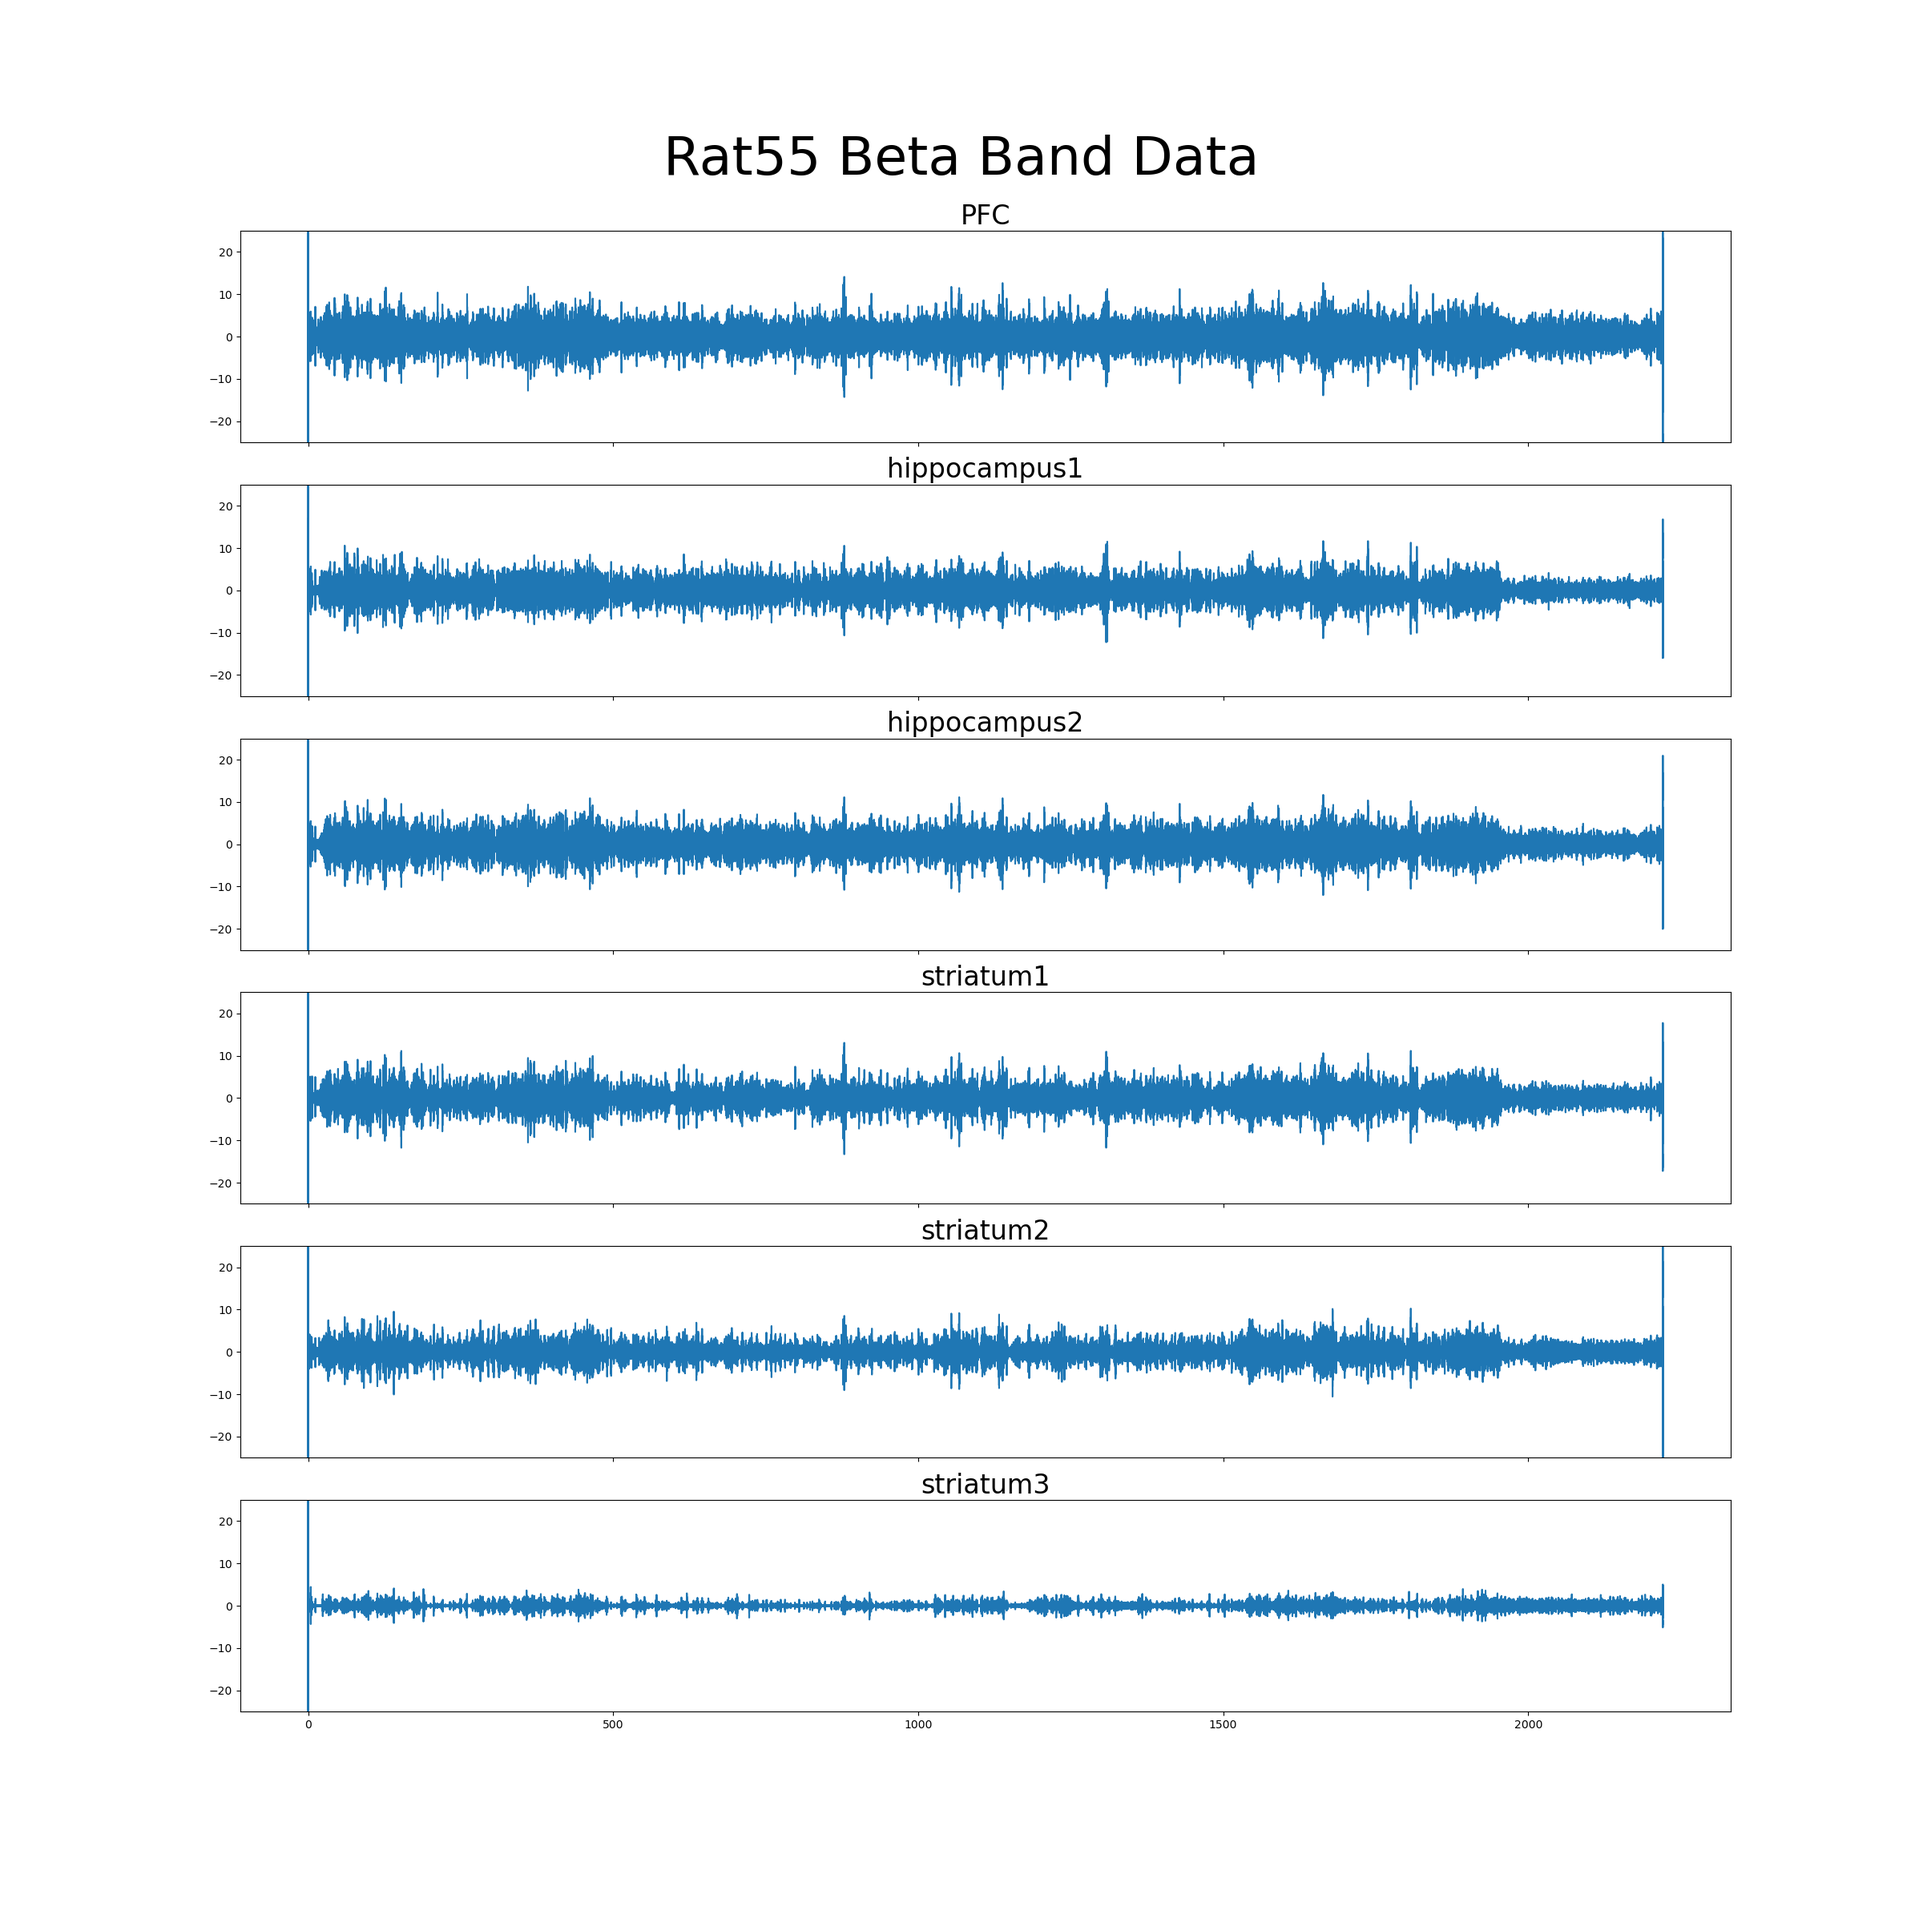
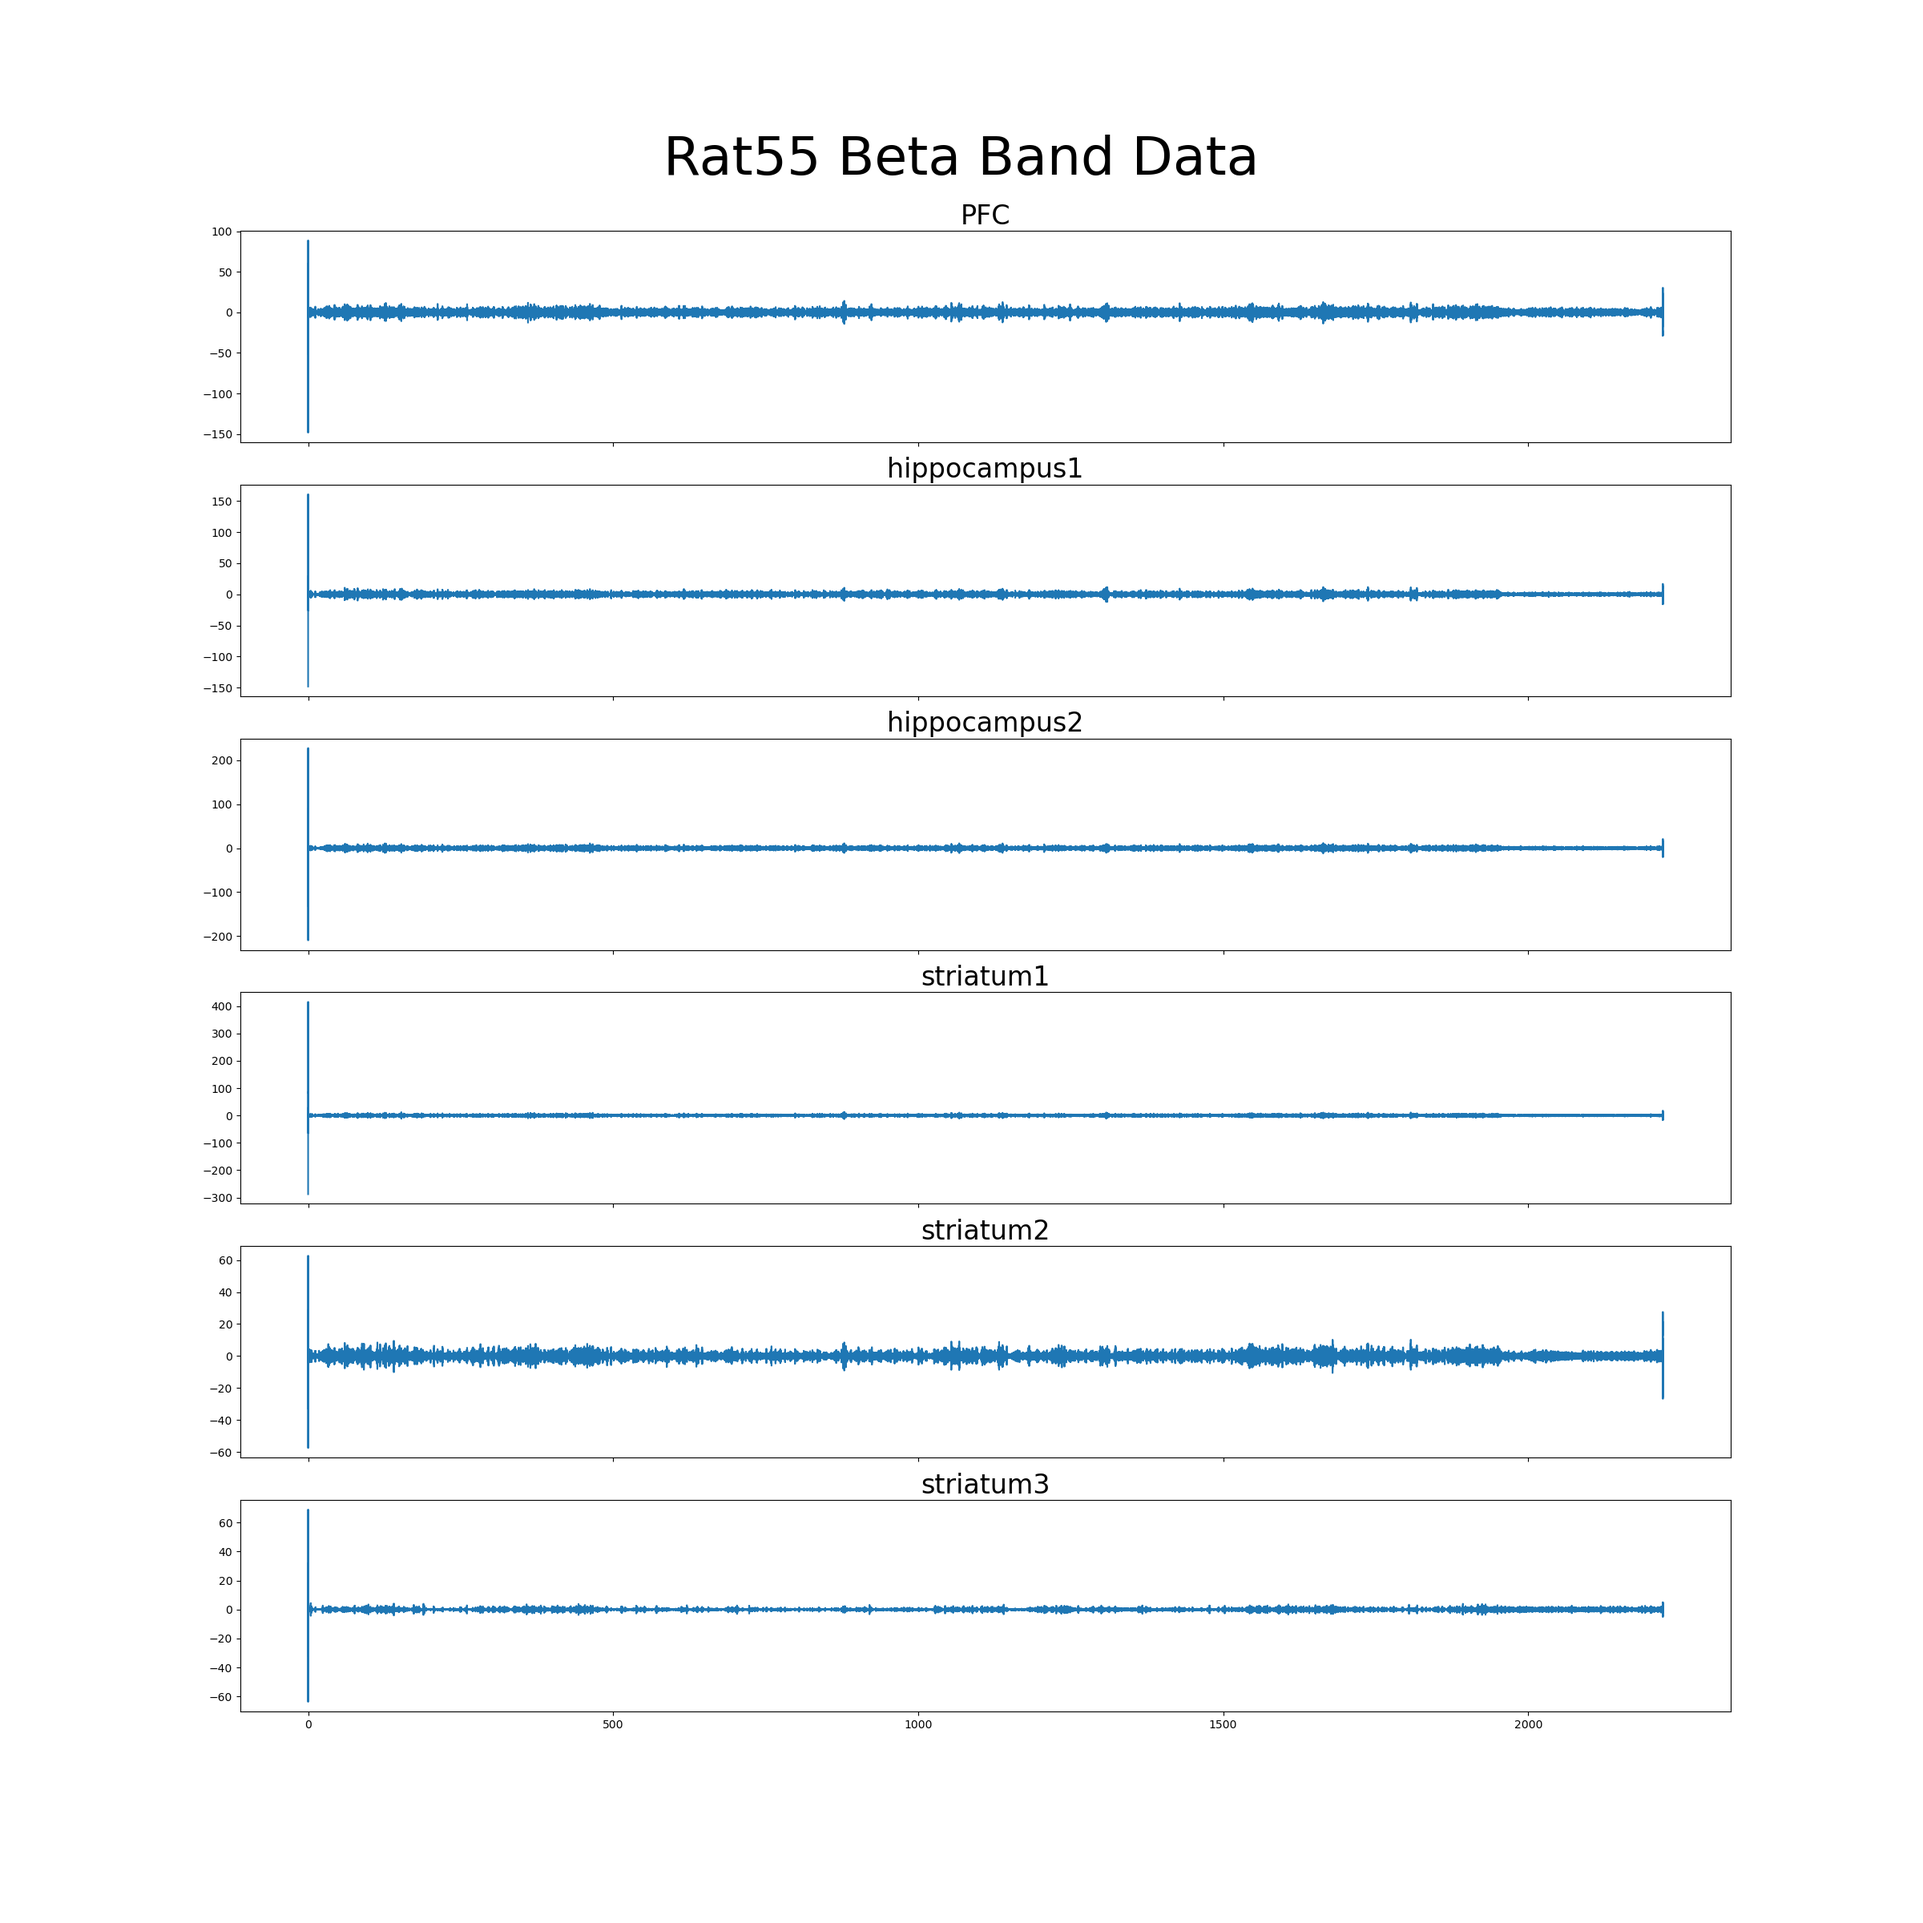
New plots

diff --git a/tests/hypercap.py b/tests/hypercap.py
@@ -11,20 +11,28 @@ import numpy as np
 rat55_raw = preprocessing.proper_format("/Volumes/Elements/Space Radiation Project/evms_hypercapnia_male1/Rat 55/Normoxic - Hypercapnic/06052023 Normoxic cond Standard housing/rat55_H06052023-105935_16g.csv")
 
 # Plot raw data
-rat55_raw_plot = visualization.plot_data(rat55_raw, "Rat55 Raw Data")
+#rat55_raw_plot = visualization.plot_data(rat55_raw, "Rat55 Raw Data")
+
+# Ground correct raw data
+preprocessing.mean_ground_correction(rat55_raw, plot='False')
 
 # Bandpass raw data
 rat55_theta = preprocessing.bandpass_of_interest(rat55_raw, 4, 8)
 rat55_alpha = preprocessing.bandpass_of_interest(rat55_raw, 8, 13)
 rat55_beta = preprocessing.bandpass_of_interest(rat55_raw, 13, 30)
 
-# Ground correct raw data
-preprocessing.mean_ground_correction(rat55_theta, plot='False')
-preprocessing.mean_ground_correction(rat55_alpha, plot='False')
-preprocessing.mean_ground_correction(rat55_beta, plot='False')
-
 # Plot processed data
-rat55_theta_plot = visualization.plot_data(rat55_theta, "Rat55 Theta Band Data")
-rat55_alpha_plot = visualization.plot_data(rat55_alpha, "Rat55 Alpha Band Data")
-rat55_beta_plot = visualization.plot_data(rat55_beta, "Rat55 Beta Band Data")
+#rat55_theta_plot = visualization.plot_data(rat55_theta, "Rat55 Theta Band Data")
+#rat55_alpha_plot = visualization.plot_data(rat55_alpha, "Rat55 Alpha Band Data")
+#rat55_beta_plot = visualization.plot_data(rat55_beta, "Rat55 Beta Band Data")
 
+# PSD WORK IN PROGRESS
+rat55_raw_PSD = visualization.power_spectral_density(rat55_raw, title='Raw PSD')
+rat55_alpha_PSD = visualization.power_spectral_density(rat55_alpha, title= "Alpha PSD")
+rat55_beta_PSD = visualization.power_spectral_density(rat55_beta, title = 'Beta PSD')
+rat55_theta_PSD = visualization.power_spectral_density(rat55_theta, title='Theta PSD')
+
+# Plotting power 
+#rat55_theta_power = visualization.plot_power(rat55_theta, 'Power Theta')
+#rat55_alpha_power = visualization.plot_power(rat55_alpha, 'Power Alpha')
+#rat55_beta_power = visualization.plot_power(rat55_beta, 'Power Beta')

diff --git a/src/preprocessing.py b/src/preprocessing.py
@@ -33,23 +33,6 @@ def mean_ground_correction(data, plot=True):
         plt.show()
     return data
 
-"""
-def bandpass_of_interest(data, lo, hi, fs=1024, plot=False):
-    channels = ['PFC', 'hippocampus1', 'hippocampus2', 'striatum1', 'striatum2', 'striatum3']
-    sos = signal.butter(lo,hi,'lp', fs, output = 'sos')
-    time_vector = np.arange(start=0, stop= (len(data)))
-    for chan in channels:
-        data[chan] = signal.sosfiltfilt(sos, data[chan])
-    if plot == True:
-        fig, ax = plt.subplots(nrows=len(channels), ncols=1, figsize=(24,24), sharex=True)
-        for chan in channels:
-            i = channels.index(chan)
-            ax[i].plot(time_vector, data[chan])
-            ax[i].set_title(chan, fontsize=24)
-        plt.suptitle('Bandpassed Data', fontsize=48,y=0.93)
-        plt.show()
-    else:
-        return"""
 
 def bandpass_of_interest(data, lo, hi, fs=1024, plot=False):
     N = 4  # Example order, adjust based on your needs
